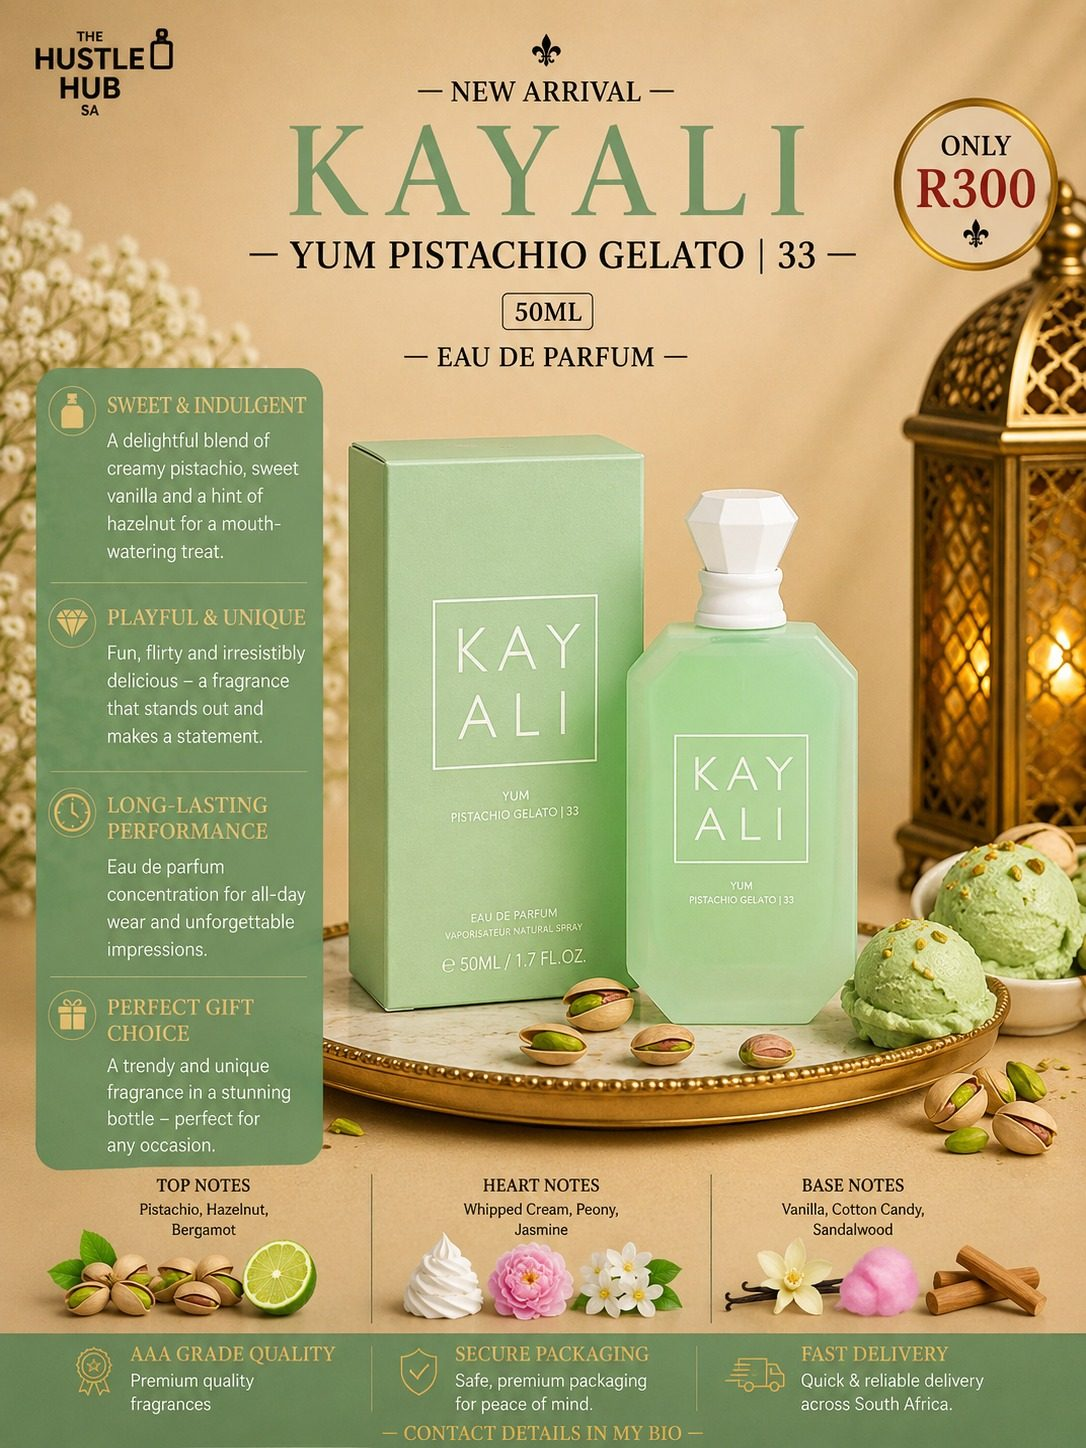
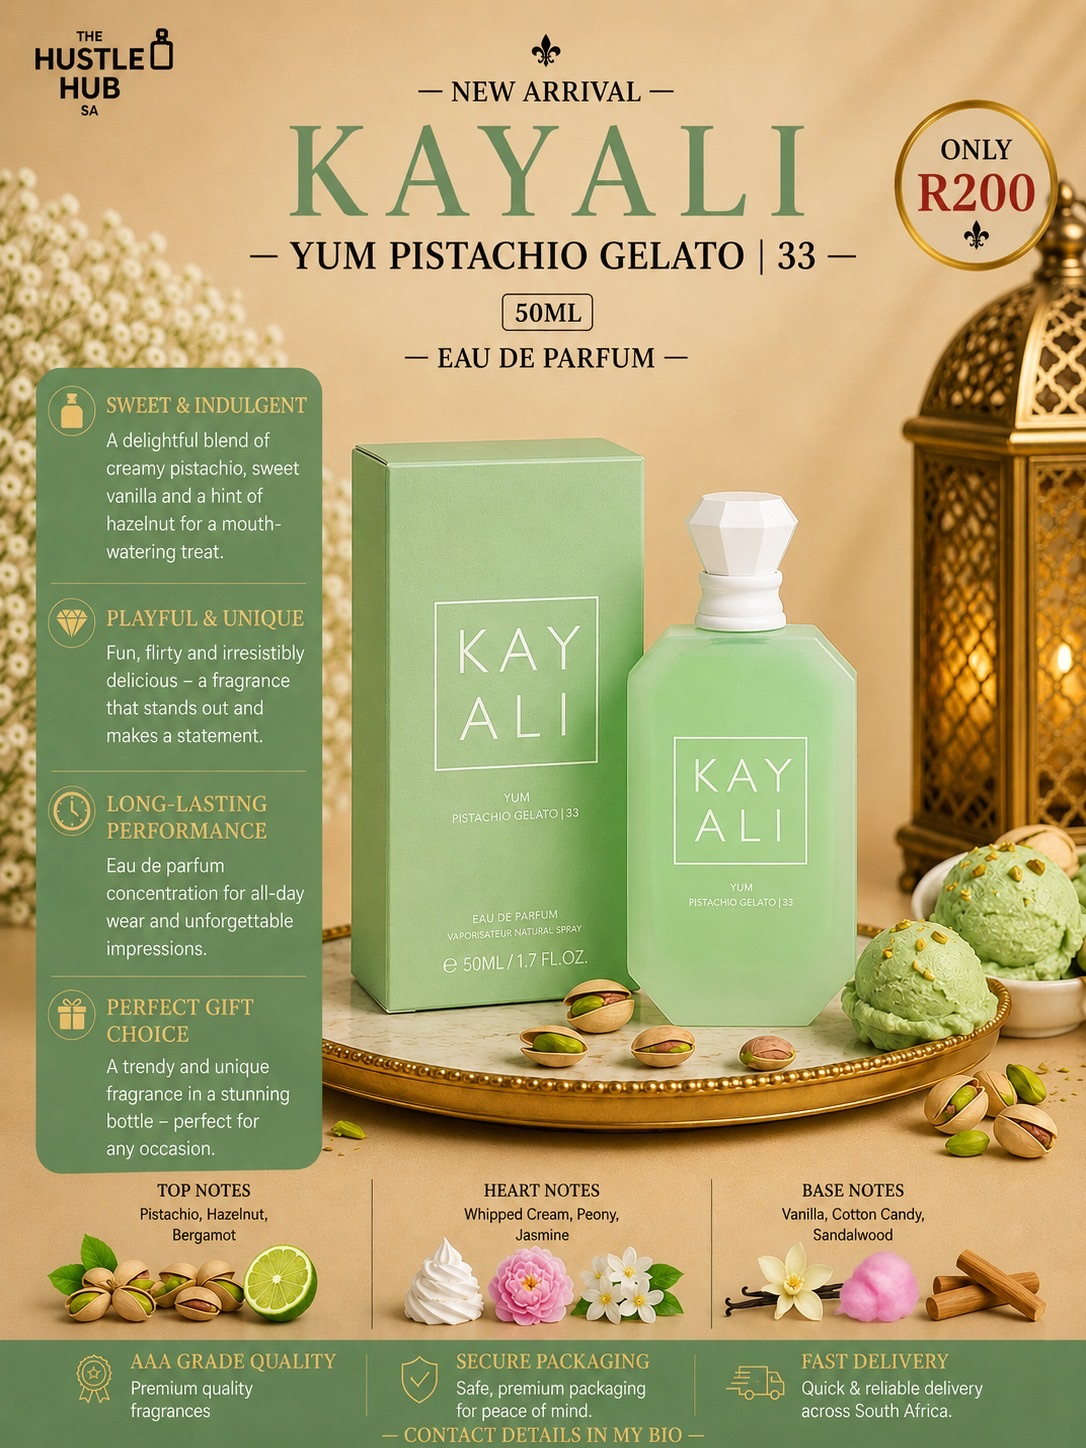
Update Kayali 50ml pricing to R200 and add Lovefest Burning Cherry | 48
Vanilla Candy Rock Star, Yum Pistachio Gelato and Oudgasm Smokey Oud
drop from R300 to R200; Lovefest Burning Cherry 50ml is a new addition
at R200. Eden Juicy Apple stays at R300 pending confirmation.

diff --git a/ladies-fragrances.html b/ladies-fragrances.html
@@ -268,14 +268,16 @@ footer{background:var(--bg2);border-top:1px solid var(--border);padding:40px 32p
 <div class="section-inner">
 <div class="section-eyebrow">Kayali · Travel-Friendly Size</div>
 <h2 class="section-title">Kayali 50ml</h2>
-<p class="section-count">4 fragrances · All R300 each · Eau de Parfum · 50ml</p>
+<p class="section-count">5 fragrances · Eau de Parfum · 50ml</p>
 <div class="product-grid">
 
-<div class="product-card"><img src="kayali-50ml-vanilla-candy-rock-star-42.jpg" alt="Kayali Vanilla Candy Rock Star | 42 50ml" loading="lazy"/><div class="product-info"><div class="badge badge-gold">New Arrival</div><div class="product-name">Vanilla Candy Rock Star | 42</div><div class="product-sub">Kayali · Eau de Parfum · 50ml</div><div class="product-footer"><span class="product-price">R300</span><button class="add-btn" onclick="addToCart('Kayali Vanilla Candy Rock Star | 42 50ml','R300','kayali-50ml-vanilla-candy-rock-star-42.jpg')">+ Add to Order</button></div></div></div>
+<div class="product-card"><img src="kayali-50ml-lovefest-burning-cherry-48.jpg" alt="Kayali Lovefest Burning Cherry | 48 50ml" loading="lazy"/><div class="product-info"><div class="badge badge-gold">New Arrival</div><div class="product-name">Lovefest Burning Cherry | 48</div><div class="product-sub">Kayali · Eau de Parfum · 50ml</div><div class="product-footer"><span class="product-price">R200</span><button class="add-btn" onclick="addToCart('Kayali Lovefest Burning Cherry | 48 50ml','R200','kayali-50ml-lovefest-burning-cherry-48.jpg')">+ Add to Order</button></div></div></div>
 
-<div class="product-card"><img src="kayali-50ml-yum-pistachio-gelato-33.jpg" alt="Kayali Yum Pistachio Gelato | 33 50ml" loading="lazy"/><div class="product-info"><div class="badge badge-gold">New Arrival</div><div class="product-name">Yum Pistachio Gelato | 33</div><div class="product-sub">Kayali · Eau de Parfum · 50ml</div><div class="product-footer"><span class="product-price">R300</span><button class="add-btn" onclick="addToCart('Kayali Yum Pistachio Gelato | 33 50ml','R300','kayali-50ml-yum-pistachio-gelato-33.jpg')">+ Add to Order</button></div></div></div>
+<div class="product-card"><img src="kayali-50ml-vanilla-candy-rock-star-42.jpg" alt="Kayali Vanilla Candy Rock Star | 42 50ml" loading="lazy"/><div class="product-info"><div class="badge badge-gold">New Arrival</div><div class="product-name">Vanilla Candy Rock Star | 42</div><div class="product-sub">Kayali · Eau de Parfum · 50ml</div><div class="product-footer"><span class="product-price">R200</span><button class="add-btn" onclick="addToCart('Kayali Vanilla Candy Rock Star | 42 50ml','R200','kayali-50ml-vanilla-candy-rock-star-42.jpg')">+ Add to Order</button></div></div></div>
 
-<div class="product-card"><img src="kayali-50ml-oudgasm-smokey-oud-07.jpg" alt="Kayali Oudgasm Smokey Oud | 07 50ml" loading="lazy"/><div class="product-info"><div class="badge badge-gold">New Arrival</div><div class="product-name">Oudgasm Smokey Oud | 07</div><div class="product-sub">Kayali · Eau de Parfum · 50ml</div><div class="product-footer"><span class="product-price">R300</span><button class="add-btn" onclick="addToCart('Kayali Oudgasm Smokey Oud | 07 50ml','R300','kayali-50ml-oudgasm-smokey-oud-07.jpg')">+ Add to Order</button></div></div></div>
+<div class="product-card"><img src="kayali-50ml-yum-pistachio-gelato-33.jpg" alt="Kayali Yum Pistachio Gelato | 33 50ml" loading="lazy"/><div class="product-info"><div class="badge badge-gold">New Arrival</div><div class="product-name">Yum Pistachio Gelato | 33</div><div class="product-sub">Kayali · Eau de Parfum · 50ml</div><div class="product-footer"><span class="product-price">R200</span><button class="add-btn" onclick="addToCart('Kayali Yum Pistachio Gelato | 33 50ml','R200','kayali-50ml-yum-pistachio-gelato-33.jpg')">+ Add to Order</button></div></div></div>
+
+<div class="product-card"><img src="kayali-50ml-oudgasm-smokey-oud-07.jpg" alt="Kayali Oudgasm Smokey Oud | 07 50ml" loading="lazy"/><div class="product-info"><div class="badge badge-gold">New Arrival</div><div class="product-name">Oudgasm Smokey Oud | 07</div><div class="product-sub">Kayali · Eau de Parfum · 50ml</div><div class="product-footer"><span class="product-price">R200</span><button class="add-btn" onclick="addToCart('Kayali Oudgasm Smokey Oud | 07 50ml','R200','kayali-50ml-oudgasm-smokey-oud-07.jpg')">+ Add to Order</button></div></div></div>
 
 <div class="product-card"><img src="kayali-50ml-eden-juicy-apple-01.jpg" alt="Kayali Eden Juicy Apple | 01 50ml" loading="lazy"/><div class="product-info"><div class="badge badge-gold">New Arrival</div><div class="product-name">Eden Juicy Apple | 01</div><div class="product-sub">Kayali · Eau de Parfum · 50ml</div><div class="product-footer"><span class="product-price">R300</span><button class="add-btn" onclick="addToCart('Kayali Eden Juicy Apple | 01 50ml','R300','kayali-50ml-eden-juicy-apple-01.jpg')">+ Add to Order</button></div></div></div>
 
